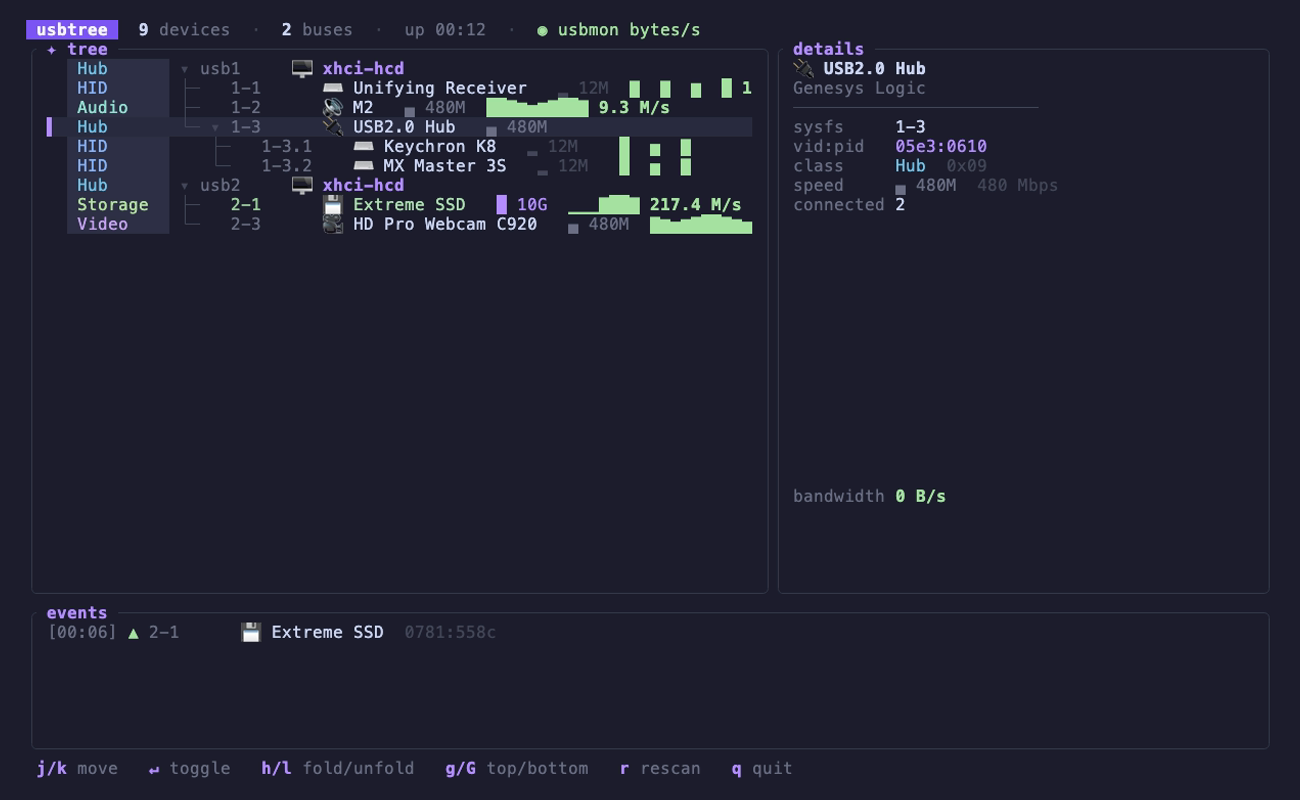
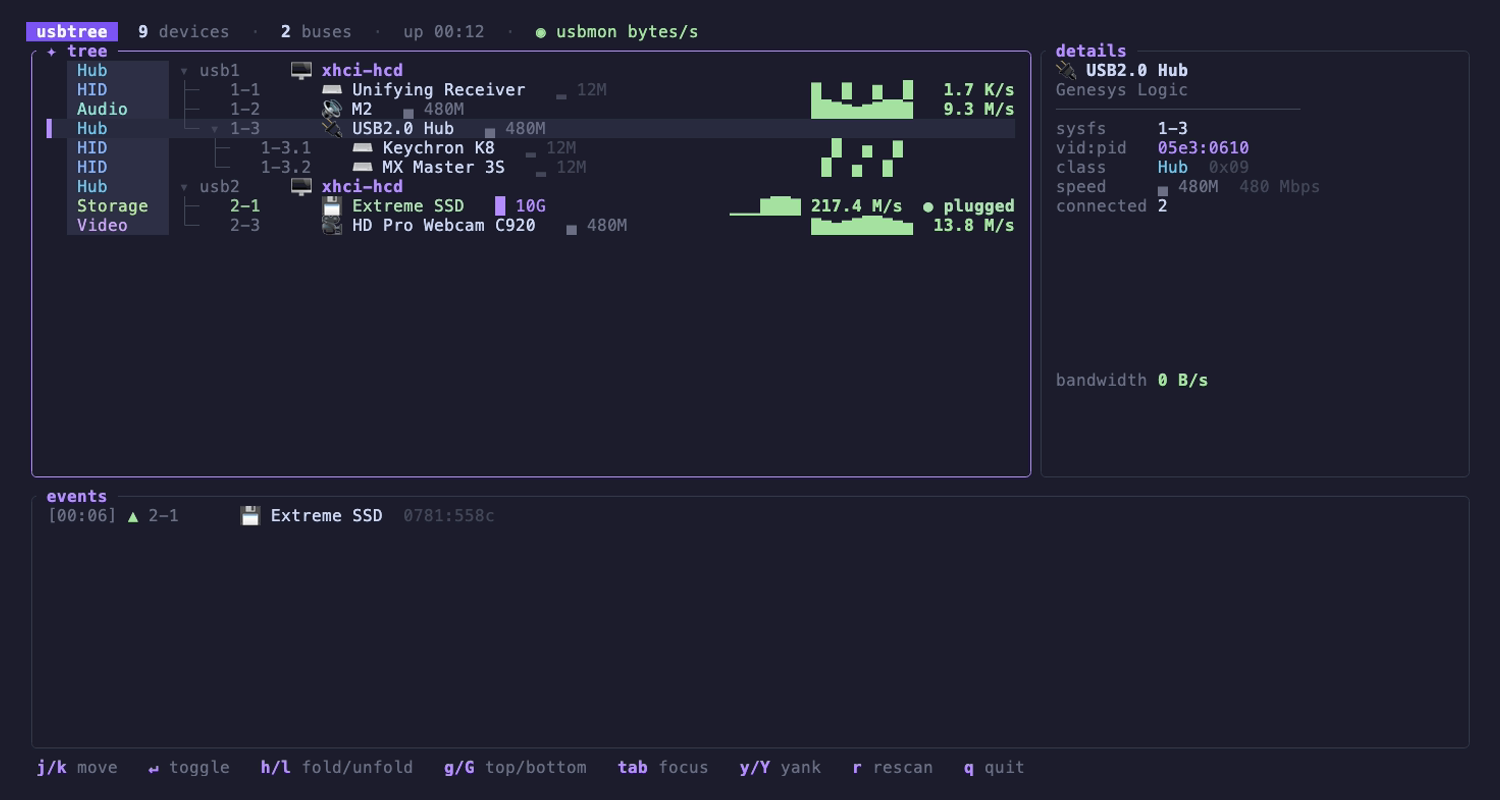
feat(tui): pane focus + responsive metric columns (#15)
- tab/shift-tab switch focus tree↔events; focused pane gets accent
  border, j/k g/G drive it (drops mac-hostile PgUp/PgDn)
- taller events pane (8→14), scrollable via focus
- yank in events: y = device id, Y = name
- metrics degrade by row width: sparkline → rate → tick; rate stays
  right-aligned, full bandwidth still in detail pane
- widen demo tape 1300→1500

diff --git a/src/main.rs b/src/main.rs
@@ -186,6 +186,15 @@ fn pane(title: &str) -> Block<'_> {
         .padding(Padding::horizontal(1))
 }
 
+/// Accent the border of the pane that currently holds keyboard focus.
+fn focus_ring(block: Block<'_>, focused: bool) -> Block<'_> {
+    if focused {
+        block.border_style(Style::new().fg(theme::ACCENT))
+    } else {
+        block
+    }
+}
+
 fn main() -> std::io::Result<()> {
     let demo = std::env::args().any(|a| a == "--demo");
     if std::env::args().any(|a| a == "--dump") {
@@ -231,19 +240,38 @@ fn dump(demo: bool) {
     }
 }
 
-fn event_line(stamp: &str, added: bool, d: &Device) -> Line<'static> {
+/// One hot-plug entry: the styled line for display, plus the raw id / name for
+/// yanking (`y` = id, `Y` = name).
+struct LogEvent {
+    line: Line<'static>,
+    id: String,
+    name: String,
+}
+
+fn event_entry(stamp: &str, added: bool, d: &Device) -> LogEvent {
     let (glyph, color) = if added {
         ("▲ ", theme::MINT)
     } else {
         ("▼ ", theme::ROSE)
     };
-    Line::from(vec![
+    let line = Line::from(vec![
         stamp.to_string().fg(theme::DIM),
         Span::styled(glyph, Style::new().fg(color).bold()),
         format!("{:<8}", d.name).fg(theme::DIM),
         format!(" {} {}", d.icon(), d.label()).fg(theme::TEXT),
         format!("  {:04x}:{:04x}", d.vid, d.pid).fg(theme::FAINT),
-    ])
+    ]);
+    LogEvent {
+        line,
+        id: format!("{:04x}:{:04x}", d.vid, d.pid),
+        name: d.label(),
+    }
+}
+
+#[derive(PartialEq, Clone, Copy)]
+enum Focus {
+    Tree,
+    Events,
 }
 
 struct App {
@@ -257,7 +285,9 @@ struct App {
     ghosts: Vec<(Device, Instant)>,
     collapsed: HashSet<String>,
     list: ListState,
-    log: VecDeque<Line<'static>>,
+    log: VecDeque<LogEvent>,
+    log_state: ListState,
+    focus: Focus,
     started: Instant,
     last_scan: Instant,
     metrics: Metrics,
@@ -291,6 +321,8 @@ impl App {
             collapsed: HashSet::new(),
             list,
             log: VecDeque::new(),
+            log_state: ListState::default(),
+            focus: Focus::Tree,
             started: Instant::now(),
             last_scan: Instant::now(),
             metrics,
@@ -310,12 +342,11 @@ impl App {
             {
                 match key.code {
                     KeyCode::Char('q') | KeyCode::Esc => return Ok(()),
-                    KeyCode::Down | KeyCode::Char('j') => self.move_sel(1),
-                    KeyCode::Up | KeyCode::Char('k') => self.move_sel(-1),
-                    KeyCode::Char('g') | KeyCode::Home => self.list.select(Some(0)),
-                    KeyCode::Char('G') | KeyCode::End => {
-                        self.list.select(Some(self.rows.len().saturating_sub(1)))
-                    }
+                    KeyCode::Tab | KeyCode::BackTab => self.toggle_focus(),
+                    KeyCode::Down | KeyCode::Char('j') => self.nav(1),
+                    KeyCode::Up | KeyCode::Char('k') => self.nav(-1),
+                    KeyCode::Char('g') | KeyCode::Home => self.nav_to(0),
+                    KeyCode::Char('G') | KeyCode::End => self.nav_to(isize::MAX),
                     KeyCode::Enter | KeyCode::Char(' ') => self.fold(None),
                     KeyCode::Left | KeyCode::Char('h') => self.fold(Some(true)),
                     KeyCode::Right | KeyCode::Char('l') => self.fold(Some(false)),
@@ -331,18 +362,72 @@ impl App {
         }
     }
 
-    fn move_sel(&mut self, delta: isize) {
-        if self.rows.is_empty() {
+    /// Switch keyboard focus between the tree and events panes. Entering the
+    /// events pane parks the cursor on the newest entry; leaving it clears the
+    /// selection so the pane snaps back to newest.
+    fn toggle_focus(&mut self) {
+        self.focus = match self.focus {
+            Focus::Tree => Focus::Events,
+            Focus::Events => Focus::Tree,
+        };
+        match self.focus {
+            Focus::Events if self.log_state.selected().is_none() && !self.log.is_empty() => {
+                self.log_state.select(Some(0))
+            }
+            Focus::Tree => self.log_state.select(None),
+            _ => {}
+        }
+    }
+
+    /// Move the selection in the focused pane. Selection drives ratatui's List
+    /// scroll; in the events pane a higher index is an older entry (newest-first).
+    fn nav(&mut self, delta: isize) {
+        let (state, len) = match self.focus {
+            Focus::Tree => (&mut self.list, self.rows.len()),
+            Focus::Events => (&mut self.log_state, self.log.len()),
+        };
+        if len == 0 {
             return;
         }
-        let cur = self.list.selected().unwrap_or(0) as isize;
-        let new = (cur + delta).clamp(0, self.rows.len() as isize - 1);
-        self.list.select(Some(new as usize));
+        let cur = state.selected().unwrap_or(0) as isize;
+        let new = (cur + delta).clamp(0, len as isize - 1);
+        state.select(Some(new as usize));
+    }
+
+    /// Jump to an absolute row in the focused pane (`0` = top, `isize::MAX` = bottom).
+    fn nav_to(&mut self, idx: isize) {
+        let (state, len) = match self.focus {
+            Focus::Tree => (&mut self.list, self.rows.len()),
+            Focus::Events => (&mut self.log_state, self.log.len()),
+        };
+        if len == 0 {
+            return;
+        }
+        let clamped = idx.clamp(0, len as isize - 1);
+        state.select(Some(clamped as usize));
     }
 
     /// Copy the selected device to the clipboard. `full` grabs a labelled
     /// block; otherwise just the `vid:pid`.
     fn yank(&mut self, full: bool) {
+        if self.focus == Focus::Events {
+            let Some(ev) = self.log_state.selected().and_then(|s| self.log.get(s)) else {
+                return;
+            };
+            let (text, what) = if full {
+                (ev.name.clone(), "event name")
+            } else {
+                (ev.id.clone(), "event id")
+            };
+            self.toast = Some((
+                match clip(&text) {
+                    Ok(()) => format!("copied {what}"),
+                    Err(e) => format!("copy failed: {e}"),
+                },
+                Instant::now(),
+            ));
+            return;
+        }
         let Some(&(_, i)) = self.list.selected().and_then(|s| self.rows.get(s)) else {
             return;
         };
@@ -377,10 +462,10 @@ impl App {
         let stamp = self.started.elapsed().as_secs();
         let stamp = format!("[{:02}:{:02}] ", stamp / 60, stamp % 60);
         for d in &added {
-            self.log.push_front(event_line(&stamp, true, d));
+            self.log.push_front(event_entry(&stamp, true, d));
         }
         for d in &removed {
-            self.log.push_front(event_line(&stamp, false, d));
+            self.log.push_front(event_entry(&stamp, false, d));
         }
         self.log.truncate(200);
         let now = Instant::now();
@@ -482,7 +567,7 @@ impl App {
         let [header, main, log_area, help] = Layout::vertical([
             Constraint::Length(1),
             Constraint::Min(5),
-            Constraint::Length(8),
+            Constraint::Length(14),
             Constraint::Length(1),
         ])
         .areas(f.area().inner(Margin::new(1, 0)));
@@ -516,6 +601,7 @@ impl App {
             ("↵", "toggle"),
             ("h/l", "fold/unfold"),
             ("g/G", "top/bottom"),
+            ("tab", "focus"),
             ("y/Y", "yank"),
             ("r", "rescan"),
             ("q", "quit"),
@@ -627,9 +713,8 @@ impl App {
                 }
 
                 // right-aligned block, fixed-width columns so they stack tidily:
-                // [spark:SPARK_WIDTH] [rate:RATE_W] [badge:BADGE_W]
+                // [spark:SPARK_WIDTH] [rate:RATE_W] [badge — only when present]
                 const RATE_W: usize = 9;
-                const BADGE_W: usize = 12;
                 let h = self.rates.get(&d.name);
                 let has_traffic =
                     h.is_some_and(|h| h.iter().rev().take(SPARK_WIDTH).any(|&v| v > 0));
@@ -640,39 +725,46 @@ impl App {
                 };
                 if has_traffic || badge.is_some() {
                     let cur = h.and_then(|h| h.last().copied()).unwrap_or(0);
-                    let spark = if has_traffic {
-                        sparkline(h.unwrap(), SPARK_WIDTH)
-                    } else {
-                        " ".repeat(SPARK_WIDTH)
-                    };
                     let rate = if cur > 0 {
                         fmt_rate(cur, self.metrics.is_bytes())
                     } else {
                         String::new()
                     };
-                    let (btext, bcolor) = badge.unwrap_or(("", theme::TEXT));
-                    // badge slot always reserved so the rate column stays put
                     // ghost rows keep their frozen old data but tinted red via fade()
                     let metric = fade(theme::MINT);
-                    let right = vec![
-                        format!("{spark:>SPARK_WIDTH$} ").fg(metric),
-                        format!("{rate:>RATE_W$}").fg(metric).bold(),
-                        format!("  {btext:<BADGE_W$}").fg(bcolor).bold(),
-                    ];
                     // inner width = area minus border(2) + horizontal padding(2)
                     let inner = area.width.saturating_sub(4) as usize;
                     let left_w: usize = spans.iter().map(Span::width).sum();
-                    let right_w: usize = right.iter().map(Span::width).sum();
-                    let pad = inner.saturating_sub(left_w + right_w).max(2);
-                    spans.push(Span::raw(" ".repeat(pad)));
-                    spans.extend(right);
+                    // responsive: rate always right-aligns; the sparkline is
+                    // decoration, dropped when the pane is too narrow to hold it
+                    // (full history still lives in the detail pane). Too tight
+                    // for the number → a single activity tick.
+                    let room = inner.saturating_sub(left_w);
+                    let mut right = Vec::new();
+                    if has_traffic && room >= SPARK_WIDTH + 1 + RATE_W + 2 {
+                        right.push(format!("{:>SPARK_WIDTH$} ", sparkline(h.unwrap(), SPARK_WIDTH)).fg(metric));
+                    }
+                    if room >= RATE_W + 2 {
+                        right.push(format!("{rate:>RATE_W$}").fg(metric).bold());
+                    } else if has_traffic {
+                        right.push("▪".fg(metric).bold());
+                    }
+                    if let Some((btext, bcolor)) = badge {
+                        right.push(format!("  {btext}").fg(bcolor).bold());
+                    }
+                    if !right.is_empty() {
+                        let right_w: usize = right.iter().map(Span::width).sum();
+                        let pad = inner.saturating_sub(left_w + right_w).max(2);
+                        spans.push(Span::raw(" ".repeat(pad)));
+                        spans.extend(right);
+                    }
                 }
                 ListItem::new(Line::from(spans))
             })
             .collect();
         let list = List::new(items)
             .style(Style::new().fg(theme::TEXT))
-            .block(pane("✦ tree"))
+            .block(focus_ring(pane("✦ tree"), self.focus == Focus::Tree))
             .scroll_padding(2)
             .highlight_style(Style::new().bg(theme::SEL_BG));
         f.render_stateful_widget(list, area, &mut self.list);
@@ -745,8 +837,9 @@ impl App {
         }
     }
 
-    fn draw_log(&self, f: &mut Frame, area: Rect) {
-        let block = pane("events");
+    fn draw_log(&mut self, f: &mut Frame, area: Rect) {
+        let focused = self.focus == Focus::Events;
+        let block = focus_ring(pane("events"), focused);
         if self.log.is_empty() {
             f.render_widget(
                 Paragraph::new(Line::from(
@@ -758,15 +851,19 @@ impl App {
             return;
         }
         // newest entries bright, older ones dim out
-        let items = self.log.iter().enumerate().map(|(i, l)| {
-            let item = ListItem::new(l.clone());
+        let items = self.log.iter().enumerate().map(|(i, ev)| {
+            let item = ListItem::new(ev.line.clone());
             if i >= 4 {
                 item.style(Style::new().add_modifier(Modifier::DIM))
             } else {
                 item
             }
         });
-        f.render_widget(List::new(items.collect::<Vec<_>>()).block(block), area);
+        let mut list = List::new(items.collect::<Vec<_>>()).block(block);
+        if focused {
+            list = list.highlight_style(Style::new().bg(theme::SEL_BG));
+        }
+        f.render_stateful_widget(list, area, &mut self.log_state);
     }
 }
 